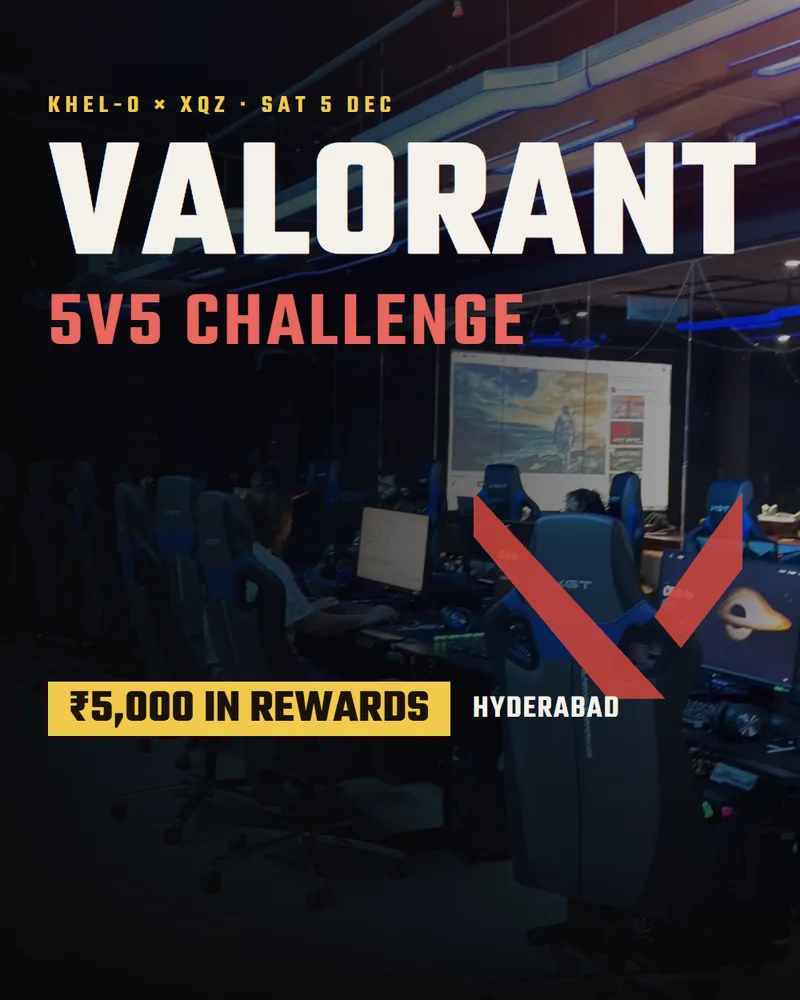
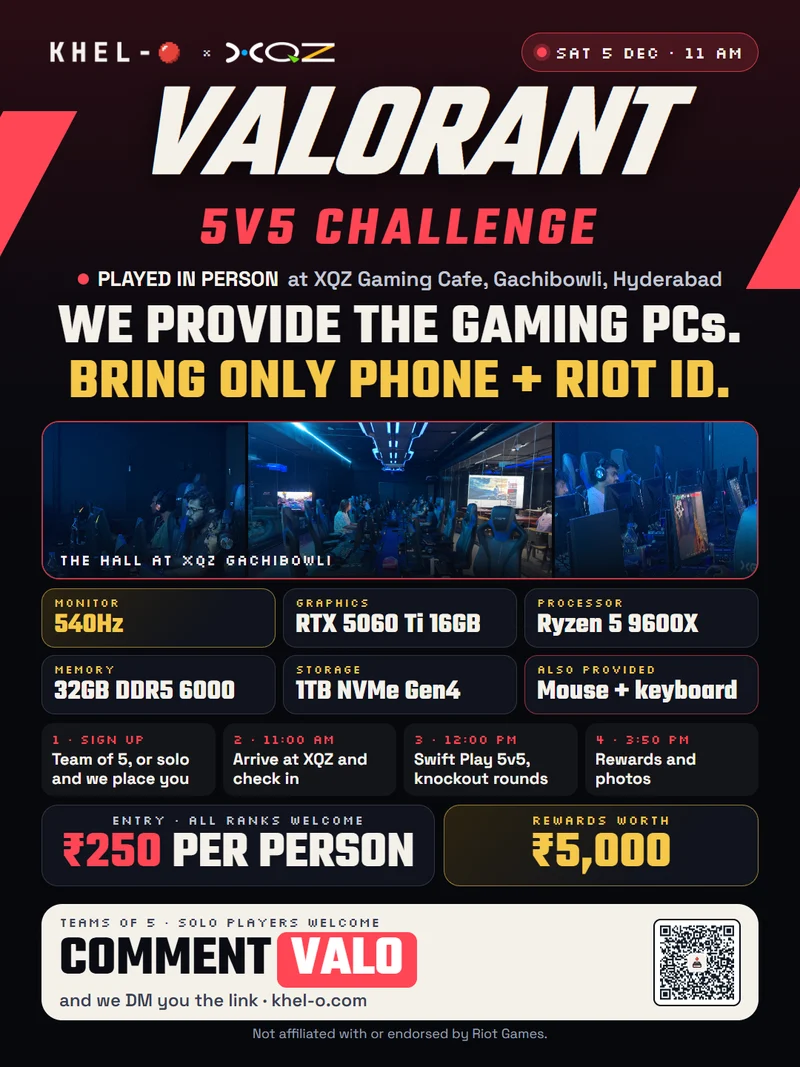
feat(valorant): full-info poster as share card/Home art; /valorant/hyderabad search page; FAQ + richer Event schema, sitemap, robots, llms.txt
Claude-Session: https://claude.ai/code/session_014psYpMdyN2wBjfkPoJP9EH

diff --git a/frontend/src/app/valorant/hyderabad/page.tsx b/frontend/src/app/valorant/hyderabad/page.tsx
@@ -1,0 +1,109 @@
+import type { Metadata } from 'next';
+import Link from 'next/link';
+import { CustomerShell } from '@/components/layout/CustomerShell';
+import { valorant3v3Xqz as cfg } from '@/challenges/valorant-5v5-xqz';
+import { getPublicEnv } from '@/lib/runtimeEnv';
+
+const SITE_URL = getPublicEnv('NEXT_PUBLIC_APP_URL', 'https://khel-o.online');
+const CHALLENGE = `/challenge/${cfg.slug}`;
+const SHARE = '/challenges/valorant-3v3-xqz/poster-og.jpg';
+
+// Words people type: Valorant 5v5 Hyderabad, Valorant event Hyderabad, Valorant LAN, Valorant Gachibowli, gaming cafe.
+// The literal word "tournament" is kept out of the page body on purpose (payment partners read the site).
+const TITLE = 'Valorant 5v5 in Hyderabad: In-Person Event at XQZ, Gachibowli (Sat 5 Dec)';
+const DESCRIPTION =
+  'Play Valorant 5v5 in person in Hyderabad. Knockout bracket for teams of 5 at XQZ Gaming Cafe, Gachibowli on Sat 5 Dec. We provide the gaming PCs (RTX 5060 Ti, Ryzen 5 9600X, 540Hz). ₹250 per person, solo players welcome.';
+
+const FAQ: { q: string; a: string }[] = [
+  { q: 'Where can I play a Valorant 5v5 in Hyderabad?', a: 'KHEL-O and XQZ Gaming Cafe run a Valorant 5v5 challenge on Saturday 5 December 2026, in person at XQZ Gaming Cafe, Gachibowli, Hyderabad. Teams of 5 play Swift Play matches in a knockout bracket.' },
+  { q: 'Is there a Valorant event or LAN in Gachibowli?', a: 'Yes. It is a LAN-style event: everyone plays in person on the same gaming PCs at XQZ Gaming Cafe, Gachibowli. Report by 11:00 AM, first matches start at 12:00 PM.' },
+  { q: 'Do I need to bring my own PC or laptop?', a: 'No. XQZ provides every PC: RTX 5060 Ti 16GB, Ryzen 5 9600X, 32GB DDR5 6000, 1TB NVMe Gen4 and a 540Hz monitor. Every seat is the same build and the peripherals are provided. Bring your phone and your Riot ID.' },
+  { q: 'How much does it cost?', a: '₹250 per person, so ₹1,250 for a team of 5. Rewards worth ₹5,000 come from XQZ and Team Khelo.' },
+  { q: 'Can I join without a team?', a: 'Yes. Sign up as a solo player and KHEL-O will find you teammates.' },
+  { q: 'What rank do I need?', a: 'All ranks can join. You may meet much stronger players.' },
+  { q: 'How do I sign up?', a: `Open ${SITE_URL}${CHALLENGE}, choose team or solo and pay online. Sign-ups close on Thursday 3 December at 9:00 PM or when all team spots are taken.` },
+];
+
+export const metadata: Metadata = {
+  title: { absolute: `${TITLE} | KHEL-O` },
+  description: DESCRIPTION,
+  keywords: [
+    'Valorant 5v5 Hyderabad', 'Valorant event Hyderabad', 'Valorant LAN Hyderabad', 'Valorant Gachibowli', 'Valorant near me',
+    'Valorant tournament Hyderabad', 'Valorant competition Hyderabad', 'Valorant team event', 'gaming cafe Hyderabad', 'XQZ Gaming Cafe', 'Valorant Swift Play 5v5',
+  ],
+  alternates: { canonical: '/valorant/hyderabad', languages: { 'en-IN': `${SITE_URL}/valorant/hyderabad` } },
+  openGraph: { title: TITLE, description: DESCRIPTION, url: `${SITE_URL}/valorant/hyderabad`, type: 'website', locale: 'en_IN', images: [{ url: SHARE, width: 1200, height: 630 }] },
+  twitter: { card: 'summary_large_image', title: TITLE, description: DESCRIPTION, images: [SHARE] },
+};
+
+export default function ValorantHyderabadPage() {
+  const jsonLd = [
+    {
+      '@context': 'https://schema.org',
+      '@type': 'FAQPage',
+      mainEntity: FAQ.map((f) => ({ '@type': 'Question', name: f.q, acceptedAnswer: { '@type': 'Answer', text: f.a } })),
+    },
+    {
+      '@context': 'https://schema.org',
+      '@type': 'BreadcrumbList',
+      itemListElement: [
+        { '@type': 'ListItem', position: 1, name: 'KHEL-O', item: `${SITE_URL}/` },
+        { '@type': 'ListItem', position: 2, name: 'Valorant 5v5 in Hyderabad', item: `${SITE_URL}/valorant/hyderabad` },
+      ],
+    },
+  ];
+  const facts: [string, string][] = [
+    ['When', 'Saturday 5 December 2026. Report 11:00 AM, first match 12:00 PM, rewards and photos around 3:50 PM.'],
+    ['Where', `In person at ${cfg.venue.name}, ${cfg.venue.address}`],
+    ['Format', 'Swift Play 5v5, teams of 5, knockout bracket. First team to 5 rounds wins a game.'],
+    ['Entry', '₹250 per person (₹1,250 per team of 5). Solo players welcome, we place you in a team.'],
+    ['Rewards', 'Worth ₹5,000, from XQZ and Team Khelo.'],
+    ['Provided', cfg.provided.specs.map((s) => `${s.label}: ${s.value}`).join(' · ') + '. Mouse, keyboard and the rest are provided.'],
+    ['Bring', 'Your phone and your Riot ID. Nothing else.'],
+  ];
+  return (
+    <CustomerShell>
+      <script type="application/ld+json" dangerouslySetInnerHTML={{ __html: JSON.stringify(jsonLd).replace(/</g, '\\u003c') }} />
+      <main className="mx-auto flex w-full max-w-3xl flex-col gap-6 px-4 pb-12 pt-6">
+        <header className="flex flex-col gap-3">
+          <h1 className="font-heading text-h1 text-balance text-text-primary">Valorant 5v5 in Hyderabad</h1>
+          <p className="max-w-[68ch] text-body text-text-secondary">
+            A real match day for Valorant teams, in person at XQZ Gaming Cafe in Gachibowli on Saturday 5 December. We provide top-spec gaming PCs,
+            you bring your team of 5 (or join solo) and your Riot ID. All ranks welcome.
+          </p>
+          <Link href={CHALLENGE} className="btn-depth inline-flex min-h-[48px] w-fit items-center rounded-xl bg-primary px-5 text-body font-bold text-white">
+            See details and sign up
+          </Link>
+        </header>
+
+        <section aria-labelledby="facts" className="flex flex-col gap-2">
+          <h2 id="facts" className="font-heading text-h2 text-text-primary">The details</h2>
+          <dl className="divide-y divide-border rounded-2xl border border-border bg-card">
+            {facts.map(([k, v]) => (
+              <div key={k} className="grid gap-1 px-4 py-3 sm:grid-cols-[7rem_1fr]">
+                <dt className="text-body font-bold text-text-primary">{k}</dt>
+                <dd className="text-body text-text-secondary">{v}</dd>
+              </div>
+            ))}
+          </dl>
+        </section>
+
+        <section aria-labelledby="faq" className="flex flex-col gap-2">
+          <h2 id="faq" className="font-heading text-h2 text-text-primary">Questions</h2>
+          <div className="flex flex-col divide-y divide-border rounded-2xl border border-border bg-card">
+            {FAQ.map((f) => (
+              <div key={f.q} className="flex flex-col gap-1 px-4 py-3">
+                <h3 className="text-body font-bold text-text-primary">{f.q}</h3>
+                <p className="text-body text-text-secondary">{f.a}</p>
+              </div>
+            ))}
+          </div>
+        </section>
+
+        <p className="text-caption text-text-secondary">
+          Not affiliated with or endorsed by Riot Games. Questions: WhatsApp +91 81421 28389 or founder@khel-o.com.
+        </p>
+      </main>
+    </CustomerShell>
+  );
+}

diff --git a/frontend/src/app/challenge/[slug]/page.tsx b/frontend/src/app/challenge/[slug]/page.tsx
@@ -31,10 +31,11 @@ export async function generateMetadata({ params }: PageProps): Promise<Metadata>
   const team = teamChallengeConfig(slug);
   if (team) {
     // Search words people use: Valorant 5v5, Hyderabad, Gachibowli, team of 5, gaming cafe. Never "tournament".
-    const description = `Valorant 5v5 in Hyderabad, played in person at ${team.venue.name}, Gachibowli on Sat 5 Dec. Bring your team of 5. ${team.mode}, knockout bracket, exciting rewards worth ₹5,000. Solo players welcome, we find you a team.`;
+    const description = `Valorant 5v5 in Hyderabad, played in person at ${team.venue.name}, Gachibowli on Sat 5 Dec. We provide the gaming PCs (RTX 5060 Ti, Ryzen 5 9600X, 540Hz), bring only your phone and Riot ID. Teams of 5, knockout bracket, ₹250 per person, rewards worth ₹5,000. Solo players welcome.`;
     return {
       title: `Valorant 5v5 Challenge in Hyderabad · ${team.venue.shortName} Gachibowli, Sat 5 Dec`,
-      keywords: ['Valorant 5v5 Hyderabad', 'Valorant Hyderabad', 'Valorant Gachibowli', 'gaming cafe Hyderabad', 'Valorant team challenge', 'XQZ Hyderabad'],
+      // "tournament" lives only in these hidden keywords: people search it, the page itself says challenge.
+      keywords: ['Valorant 5v5 Hyderabad', 'Valorant Hyderabad', 'Valorant Gachibowli', 'Valorant event Hyderabad', 'Valorant LAN Hyderabad', 'Valorant tournament Hyderabad', 'Valorant competition Hyderabad', 'Valorant near me', 'gaming cafe Hyderabad', 'Valorant team challenge', 'XQZ Hyderabad', 'XQZ Gaming Cafe Gachibowli'],
       description,
       alternates: { canonical: `/challenge/${slug}` },
       openGraph: { title: team.title, description, url: `/challenge/${slug}`, type: 'website', images: [{ url: SHARE_IMAGE, width: 1200, height: 630, alt: team.title }] },
@@ -69,7 +70,11 @@ export default async function ChallengePage({ params, searchParams }: PageProps)
       endDate: initial?.endsAt ?? undefined,
       eventStatus: 'https://schema.org/EventScheduled',
       eventAttendanceMode: 'https://schema.org/OfflineEventAttendanceMode',
-      image: [`https://khel-o.com/challenges/valorant-3v3-xqz/poster-og.jpg`],
+      image: [`https://khel-o.com/challenges/valorant-3v3-xqz/poster-og.jpg`, `https://khel-o.com/challenges/valorant-3v3-xqz/poster-share-1080x1440.jpg`],
+      keywords: 'Valorant 5v5 Hyderabad, Valorant event Hyderabad, Valorant LAN Hyderabad, Valorant Gachibowli, gaming cafe Hyderabad',
+      about: { '@type': 'VideoGame', name: 'Valorant' },
+      isAccessibleForFree: false,
+      inLanguage: 'en-IN',
       location: {
         '@type': 'Place',
         name: team.venue.name,
@@ -81,9 +86,16 @@ export default async function ChallengePage({ params, searchParams }: PageProps)
         url: `https://khel-o.com/challenge/${slug}`, validThrough: team.dates.registrationCloses,
       } : undefined,
     };
+    // The same questions the page shows, so answer engines can quote them.
+    const faqLd = {
+      '@context': 'https://schema.org',
+      '@type': 'FAQPage',
+      mainEntity: team.faq.map((f) => ({ '@type': 'Question', name: f.q, acceptedAnswer: { '@type': 'Answer', text: f.a } })),
+    };
     return (
       <>
         <script type="application/ld+json" dangerouslySetInnerHTML={{ __html: JSON.stringify(event).replace(/</g, '\\u003c') }} />
+        <script type="application/ld+json" dangerouslySetInnerHTML={{ __html: JSON.stringify(faqLd).replace(/</g, '\\u003c') }} />
         <TeamLanding cfg={team} initial={initial} />
       </>
     );

diff --git a/frontend/src/app/sitemap.ts b/frontend/src/app/sitemap.ts
@@ -24,7 +24,8 @@ const STATIC_ROUTES: MetadataRoute.Sitemap = [
   { url: `${SITE_URL}/gta6/cities`, changeFrequency: 'daily', priority: 0.8 },
   { url: `${SITE_URL}/gta6/india`, changeFrequency: 'daily', priority: 0.9 },
   { url: `${SITE_URL}/community`, changeFrequency: 'weekly', priority: 0.5 },
-  { url: `${SITE_URL}/challenge/valorant-5v5-xqz`, changeFrequency: 'daily', priority: 0.8 },
+  { url: `${SITE_URL}/challenge/valorant-5v5-xqz`, changeFrequency: 'daily', priority: 0.9 },
+  { url: `${SITE_URL}/valorant/hyderabad`, changeFrequency: 'daily', priority: 0.8 },
   { url: `${SITE_URL}/challenge/valorant-5v5-xqz/rules`, changeFrequency: 'weekly', priority: 0.4 },
   { url: `${SITE_URL}/contact`, changeFrequency: 'yearly', priority: 0.3 },
   { url: `${SITE_URL}/terms`, changeFrequency: 'yearly', priority: 0.2 },

diff --git a/frontend/src/app/robots.ts b/frontend/src/app/robots.ts
@@ -4,7 +4,7 @@ import { getPublicEnv } from '@/lib/runtimeEnv';
 
 const SITE_URL = getPublicEnv('NEXT_PUBLIC_APP_URL', 'https://khel-o.online');
 
-const PUBLIC_ALLOW = ['/', '/gta6', '/cafe/', '/cafes/', '/browse', '/guides', '/about', '/terms', '/privacy', '/refund-policy', '/shipping-policy', '/contact'];
+const PUBLIC_ALLOW = ['/', '/gta6', '/valorant', '/challenge/', '/community','/cafe/', '/cafes/', '/browse', '/guides', '/about', '/terms', '/privacy', '/refund-policy', '/shipping-policy', '/contact'];
 const PRIVATE_DISALLOW = [
   '/owner',
   '/admin',
